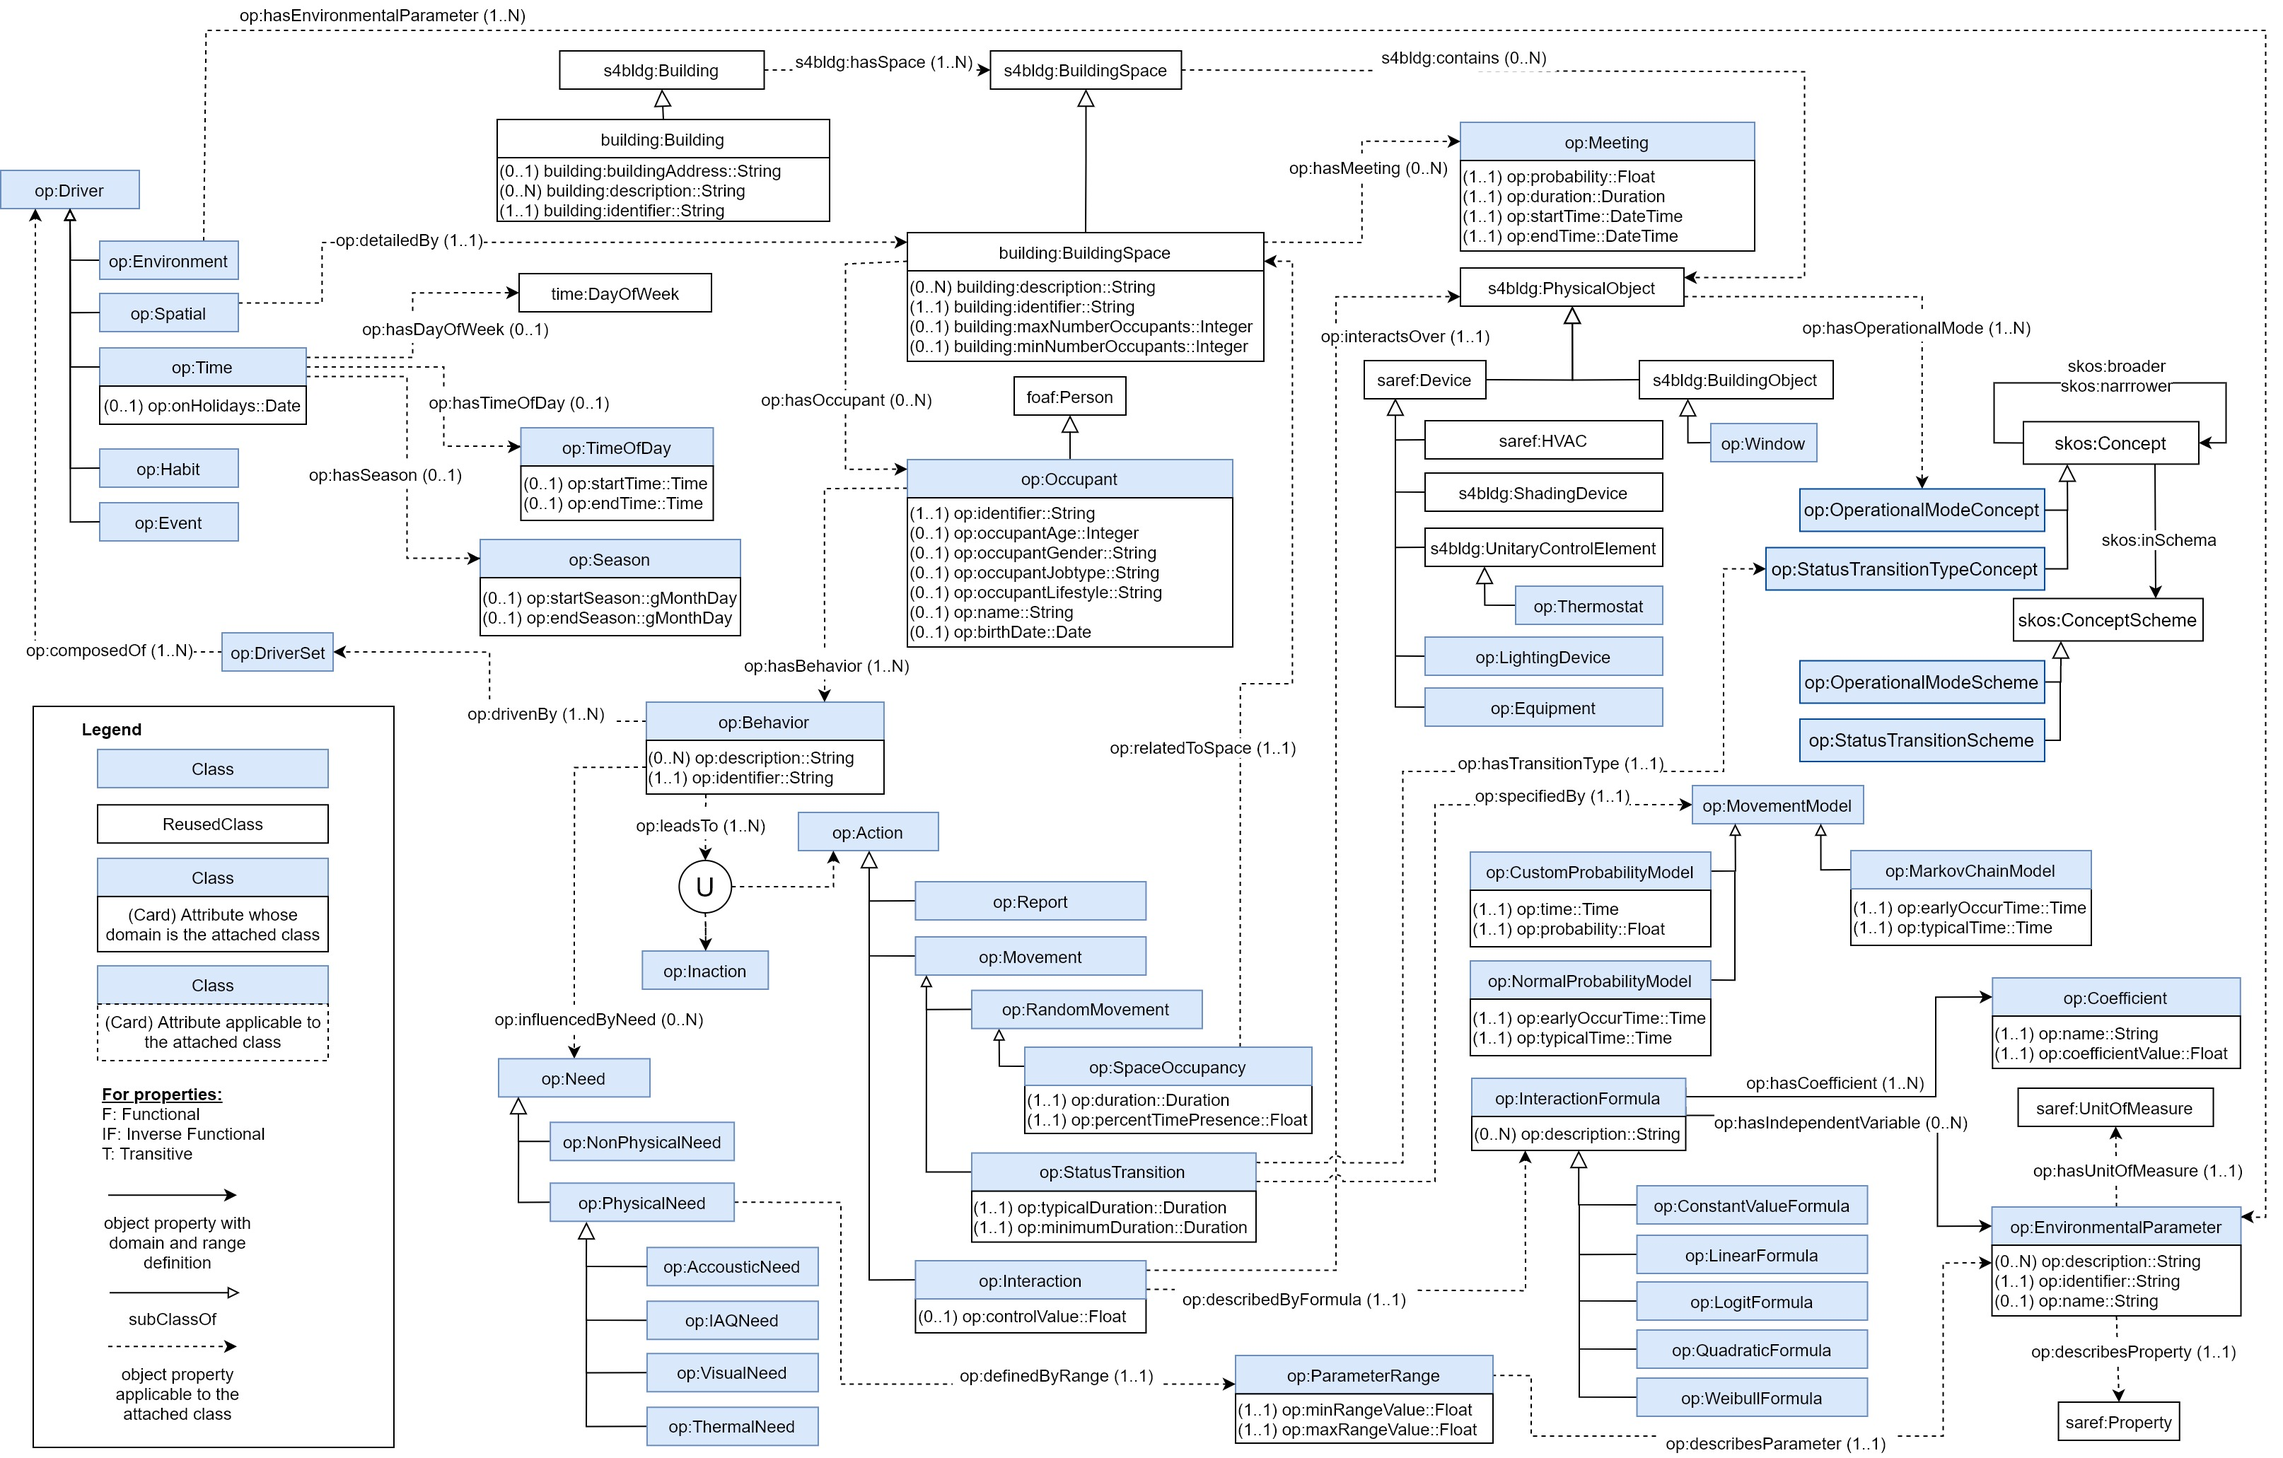
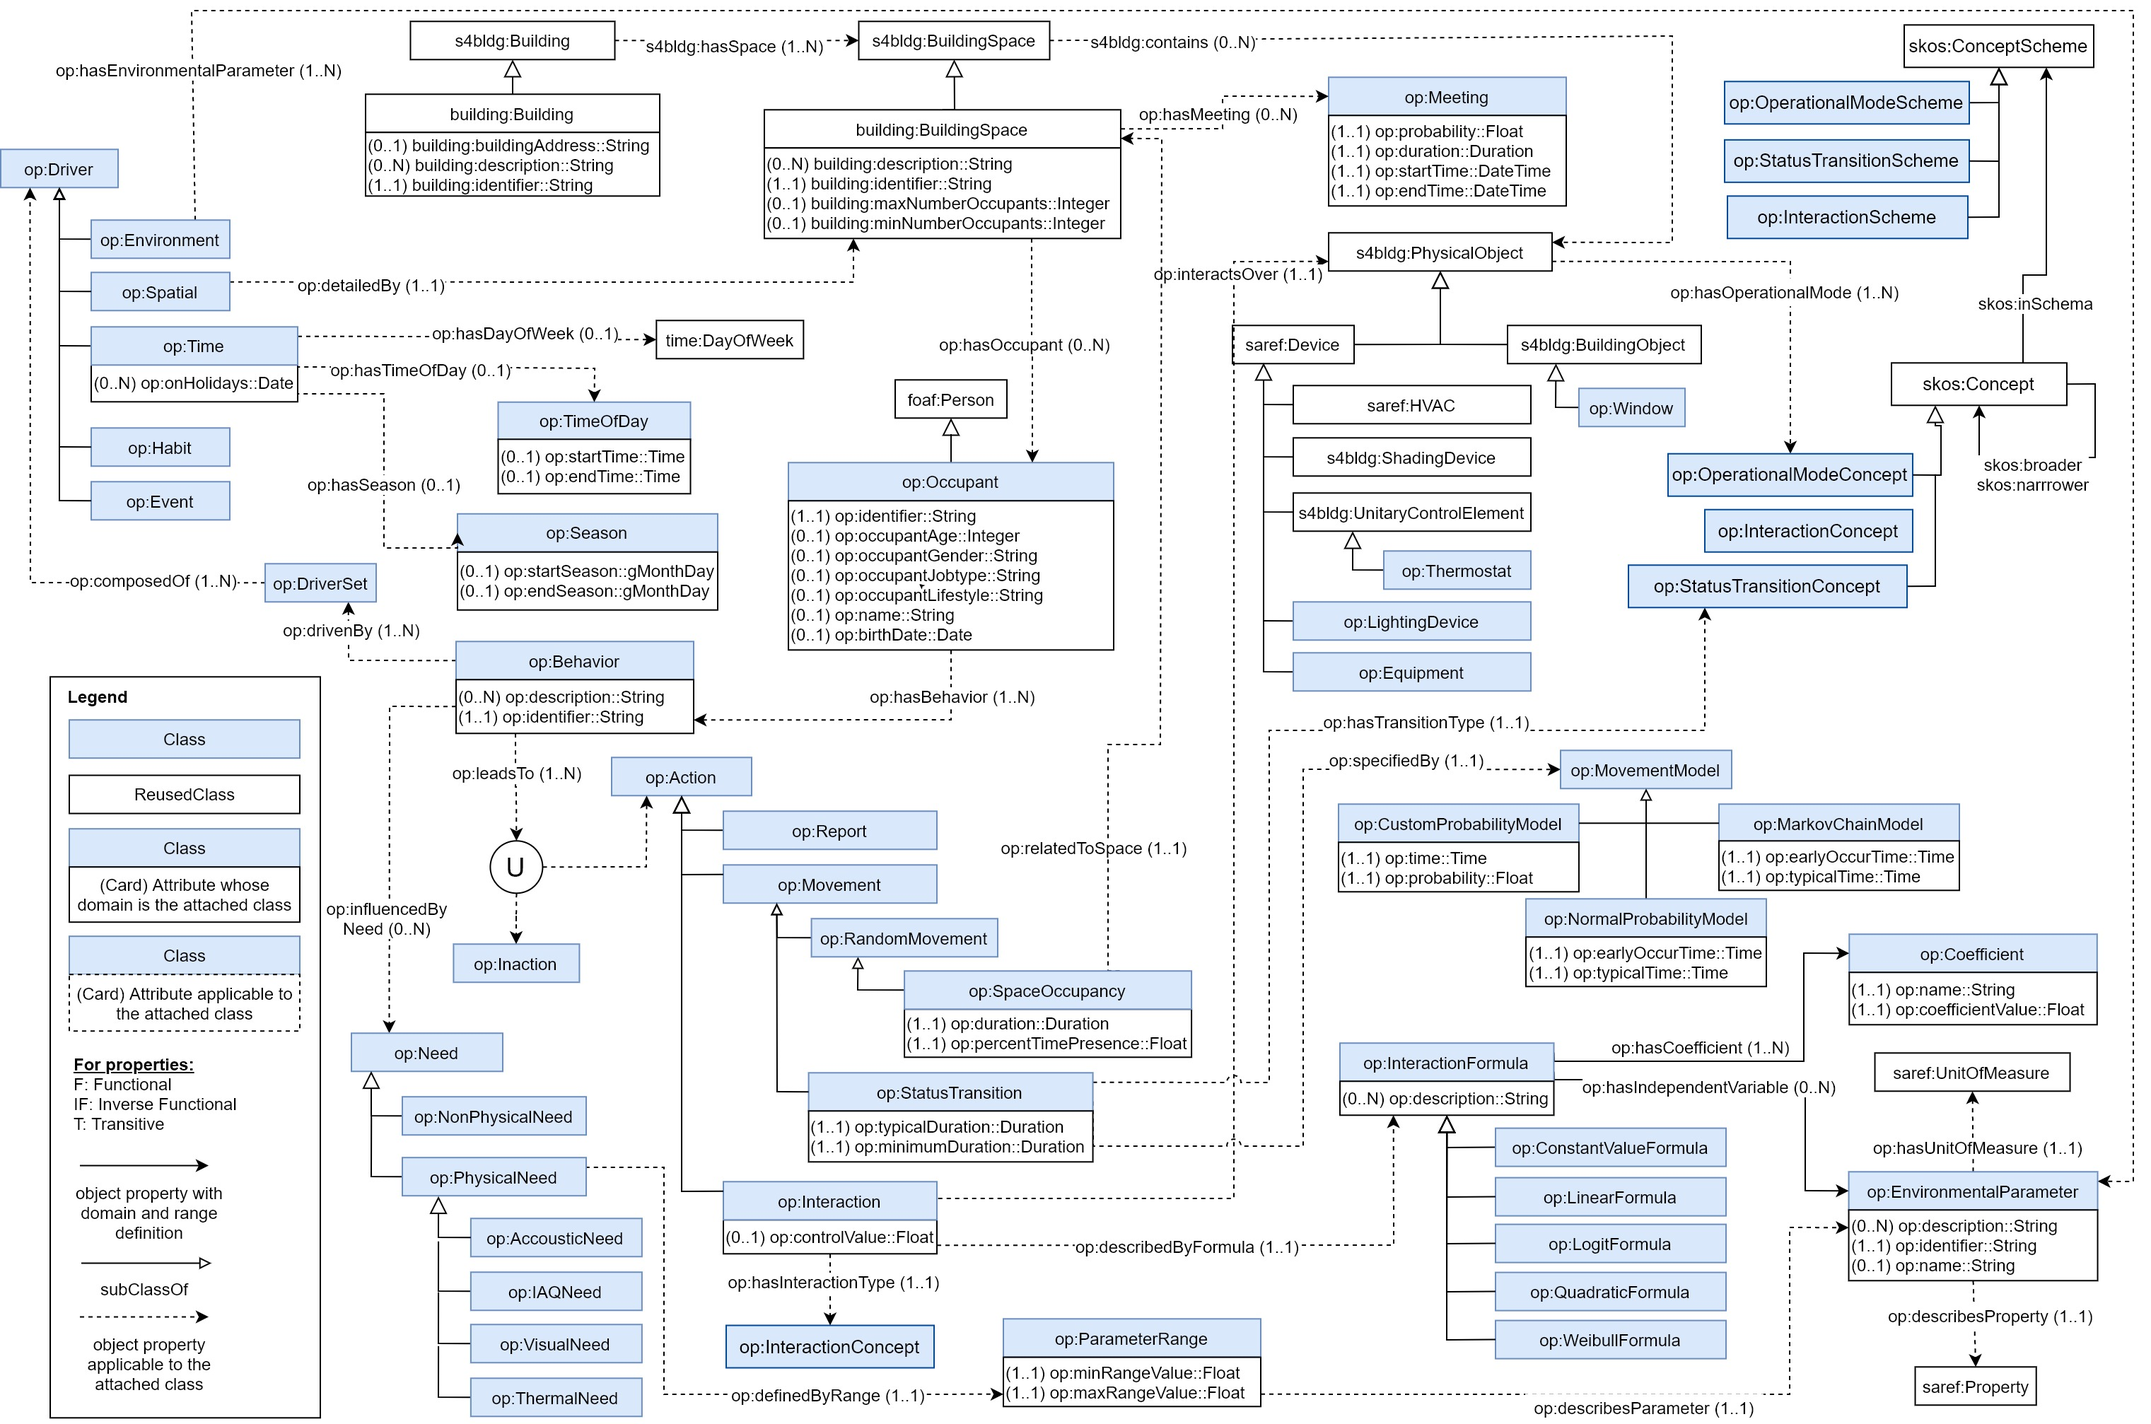
change in interaction concept

diff --git a/documentation/sections/crossref-en.html b/documentation/sections/crossref-en.html
@@ -16,10 +16,6 @@ This section provides details for each class and property defined by Occupancy P
             title="https://bimerr.iot.linkeddata.es/def/occupancy-profile#Behavior">Behavior</a>
       </li>
       <li>
-         <a href="#https://bimerr.iot.linkeddata.es/def/building#Building"
-            title="https://bimerr.iot.linkeddata.es/def/building#Building">Building</a>
-      </li>
-      <li>
          <a href="#https://w3id.org/def/saref4building#Building" title="https://w3id.org/def/saref4building#Building">Building</a>
       </li>
       <li>
@@ -99,8 +95,16 @@ This section provides details for each class and property defined by Occupancy P
             title="https://bimerr.iot.linkeddata.es/def/occupancy-profile#Interaction">Interaction</a>
       </li>
       <li>
+         <a href="#InteractionConcept"
+            title="https://bimerr.iot.linkeddata.es/def/occupancy-profile#InteractionConcept">Interaction concept</a>
+      </li>
+      <li>
          <a href="#InteractionFormula"
             title="https://bimerr.iot.linkeddata.es/def/occupancy-profile#InteractionFormula">Interaction Formula</a>
+      </li>
+      <li>
+         <a href="#InteractionScheme"
+            title="https://bimerr.iot.linkeddata.es/def/occupancy-profile#InteractionScheme">Interaction scheme</a>
       </li>
       <li>
          <a href="#LightingDevice"
@@ -315,24 +319,6 @@ This section provides details for each class and property defined by Occupancy P
          <dd/>
       </dl>
    </div>
-   <div class="entity" id="https://bimerr.iot.linkeddata.es/def/building#Building">
-      <h3>Building<sup class="type-c" title="class">c</sup>
-         <span class="backlink"> back to <a href="#toc">ToC</a> or <a href="#classes">Class ToC</a>
-         </span>
-      </h3>
-      <p>
-         <strong>IRI:</strong> https://bimerr.iot.linkeddata.es/def/building#Building</p>
-      <div class="comment">
-         <span class="markdown">Building where the occupancy behaviors occur.</span>
-      </div>
-      <dl class="description">
-         <dt>has super-classes</dt>
-         <dd>
-            <a href="#https://w3id.org/def/saref4building#Building" title="https://w3id.org/def/saref4building#Building">Building</a>
-            <sup class="type-c" title="class">c</sup>
-         </dd>
-      </dl>
-   </div>
    <div class="entity" id="https://w3id.org/def/saref4building#Building">
       <h3>Building<sup class="type-c" title="class">c</sup>
          <span class="backlink"> back to <a href="#toc">ToC</a> or <a href="#classes">Class ToC</a>
@@ -346,12 +332,6 @@ This section provides details for each class and property defined by Occupancy P
       <dl class="description">
          <dt>has super-classes</dt>
          <dd/>
-         <dt>has sub-classes</dt>
-         <dd>
-            <a href="#https://bimerr.iot.linkeddata.es/def/building#Building"
-               title="https://bimerr.iot.linkeddata.es/def/building#Building">Building</a>
-            <sup class="type-c" title="class">c</sup>
-         </dd>
       </dl>
    </div>
    <div class="entity" id="https://w3id.org/def/saref4building#BuildingObject">
@@ -458,7 +438,9 @@ This section provides details for each class and property defined by Occupancy P
          <dd/>
          <dt>has sub-classes</dt>
          <dd>
-            <a href="#OperationalModeConcept"
+            <a href="#InteractionConcept"
+               title="https://bimerr.iot.linkeddata.es/def/occupancy-profile#InteractionConcept">Interaction concept</a>
+            <sup class="type-c" title="class">c</sup>, <a href="#OperationalModeConcept"
                title="https://bimerr.iot.linkeddata.es/def/occupancy-profile#OperationalModeConcept">Operational mode concept</a>
             <sup class="type-c" title="class">c</sup>, <a href="#StatusTransitionTypeConcept"
                title="https://bimerr.iot.linkeddata.es/def/occupancy-profile#StatusTransitionTypeConcept">Status transition type concept</a>
@@ -496,7 +478,9 @@ This section provides details for each class and property defined by Occupancy P
       <dl class="description">
          <dt>has sub-classes</dt>
          <dd>
-            <a href="#OperationalModeConceptScheme"
+            <a href="#InteractionScheme"
+               title="https://bimerr.iot.linkeddata.es/def/occupancy-profile#InteractionScheme">Interaction scheme</a>
+            <sup class="type-c" title="class">c</sup>, <a href="#OperationalModeConceptScheme"
                title="https://bimerr.iot.linkeddata.es/def/occupancy-profile#OperationalModeConceptScheme">Operational mode scheme</a>
             <sup class="type-c" title="class">c</sup>, <a href="#StatusTransitionScheme"
                title="https://bimerr.iot.linkeddata.es/def/occupancy-profile#StatusTransitionScheme">Status transition scheme</a>
@@ -828,10 +812,28 @@ This section provides details for each class and property defined by Occupancy P
                title="https://bimerr.iot.linkeddata.es/def/occupancy-profile#Action">Action</a>
             <sup class="type-c" title="class">c</sup>
          </dd>
+      </dl>
+   </div>
+   <div class="entity" id="InteractionConcept">
+      <h3>Interaction concept<sup class="type-c" title="class">c</sup>
+         <span class="backlink"> back to <a href="#toc">ToC</a> or <a href="#classes">Class ToC</a>
+         </span>
+      </h3>
+      <p>
+         <strong>IRI:</strong> https://bimerr.iot.linkeddata.es/def/occupancy-profile#InteractionConcept</p>
+      <div class="comment">
+         <span class="markdown">Types of interactions between occupants and systems.</span>
+      </div>
+      <dl class="description">
+         <dt>has super-classes</dt>
+         <dd>
+            <a href="#http://www.w3.org/2004/02/skos/core#Concept" title="http://www.w3.org/2004/02/skos/core#Concept">Concept</a>
+            <sup class="type-c" title="class">c</sup>
+         </dd>
          <dt>has members</dt>
          <dd>
-            <a href="#SetControlValue"
-               title="https://bimerr.iot.linkeddata.es/def/occupancy-profile#SetControlValue">set control value</a>
+            <a href="#SetToControlValue"
+               title="https://bimerr.iot.linkeddata.es/def/occupancy-profile#SetToControlValue">set to control value</a>
             <sup class="type-ni" title="named individual">ni</sup>, <a href="#TurnOff"
                title="https://bimerr.iot.linkeddata.es/def/occupancy-profile#TurnOff">turn off</a>
             <sup class="type-ni" title="named individual">ni</sup>, <a href="#TurnOn"
@@ -874,6 +876,25 @@ This section provides details for each class and property defined by Occupancy P
             <sup class="type-op" title="object property">op</sup>, <a href="#hasIndependentVariable"
                title="https://bimerr.iot.linkeddata.es/def/occupancy-profile#hasIndependentVariable">has independent variable</a>
             <sup class="type-op" title="object property">op</sup>
+         </dd>
+      </dl>
+   </div>
+   <div class="entity" id="InteractionScheme">
+      <h3>Interaction scheme<sup class="type-c" title="class">c</sup>
+         <span class="backlink"> back to <a href="#toc">ToC</a> or <a href="#classes">Class ToC</a>
+         </span>
+      </h3>
+      <p>
+         <strong>IRI:</strong> https://bimerr.iot.linkeddata.es/def/occupancy-profile#InteractionScheme</p>
+      <div class="comment">
+         <span class="markdown">An aggregation of SKOS concepts regarding the interaction type between occupants and space systems</span>
+      </div>
+      <dl class="description">
+         <dt>has super-classes</dt>
+         <dd>
+            <a href="#http://www.w3.org/2004/02/skos/core#ConceptScheme"
+               title="http://www.w3.org/2004/02/skos/core#ConceptScheme">Concept Scheme</a>
+            <sup class="type-c" title="class">c</sup>
          </dd>
       </dl>
    </div>
@@ -2690,9 +2711,9 @@ This section provides details for each class and property defined by Occupancy P
          </a>
       </li>
       <li>
-         <a href="#SetControlValue"
-            title="https://bimerr.iot.linkeddata.es/def/occupancy-profile#SetControlValue">
-            <span>set control value</span>
+         <a href="#SetToControlValue"
+            title="https://bimerr.iot.linkeddata.es/def/occupancy-profile#SetToControlValue">
+            <span>set to control value</span>
          </a>
       </li>
       <li>
@@ -3254,18 +3275,18 @@ This section provides details for each class and property defined by Occupancy P
          </dd>
       </dl>
    </div>
-   <div class="entity" id="SetControlValue">
-      <h3>set control value<sup class="type-ni" title="named individual">ni</sup>
+   <div class="entity" id="SetToControlValue">
+      <h3>set to control value<sup class="type-ni" title="named individual">ni</sup>
          <span class="backlink"> back to <a href="#toc">ToC</a> or <a href="#namedindividuals">Named Individual ToC</a>
          </span>
       </h3>
       <p>
-         <strong>IRI:</strong> https://bimerr.iot.linkeddata.es/def/occupancy-profile#SetControlValue</p>
+         <strong>IRI:</strong> https://bimerr.iot.linkeddata.es/def/occupancy-profile#SetToControlValue</p>
       <dl class="description">
          <dt>belongs to</dt>
          <dd>
-            <a href="#Interaction"
-               title="https://bimerr.iot.linkeddata.es/def/occupancy-profile#Interaction">Interaction</a>
+            <a href="#InteractionConcept"
+               title="https://bimerr.iot.linkeddata.es/def/occupancy-profile#InteractionConcept">Interaction concept</a>
             <sup class="type-c" title="class">c</sup>
          </dd>
       </dl>
@@ -3435,8 +3456,8 @@ This section provides details for each class and property defined by Occupancy P
       <dl class="description">
          <dt>belongs to</dt>
          <dd>
-            <a href="#Interaction"
-               title="https://bimerr.iot.linkeddata.es/def/occupancy-profile#Interaction">Interaction</a>
+            <a href="#InteractionConcept"
+               title="https://bimerr.iot.linkeddata.es/def/occupancy-profile#InteractionConcept">Interaction concept</a>
             <sup class="type-c" title="class">c</sup>
          </dd>
       </dl>
@@ -3451,8 +3472,8 @@ This section provides details for each class and property defined by Occupancy P
       <dl class="description">
          <dt>belongs to</dt>
          <dd>
-            <a href="#Interaction"
-               title="https://bimerr.iot.linkeddata.es/def/occupancy-profile#Interaction">Interaction</a>
+            <a href="#InteractionConcept"
+               title="https://bimerr.iot.linkeddata.es/def/occupancy-profile#InteractionConcept">Interaction concept</a>
             <sup class="type-c" title="class">c</sup>
          </dd>
       </dl>

diff --git a/documentation/sections/overview-en.html b/documentation/sections/overview-en.html
@@ -16,10 +16,6 @@ This ontology has the following classes and properties.</span>
          title="https://bimerr.iot.linkeddata.es/def/occupancy-profile#Behavior">Behavior</a>
    </li>
    <li>
-      <a href="#https://bimerr.iot.linkeddata.es/def/building#Building"
-         title="https://bimerr.iot.linkeddata.es/def/building#Building">Building</a>
-   </li>
-   <li>
       <a href="#https://w3id.org/def/saref4building#Building" title="https://w3id.org/def/saref4building#Building">Building</a>
    </li>
    <li>
@@ -99,8 +95,16 @@ This ontology has the following classes and properties.</span>
          title="https://bimerr.iot.linkeddata.es/def/occupancy-profile#Interaction">Interaction</a>
    </li>
    <li>
+      <a href="#InteractionConcept"
+         title="https://bimerr.iot.linkeddata.es/def/occupancy-profile#InteractionConcept">Interaction concept</a>
+   </li>
+   <li>
       <a href="#InteractionFormula"
          title="https://bimerr.iot.linkeddata.es/def/occupancy-profile#InteractionFormula">Interaction Formula</a>
+   </li>
+   <li>
+      <a href="#InteractionScheme"
+         title="https://bimerr.iot.linkeddata.es/def/occupancy-profile#InteractionScheme">Interaction scheme</a>
    </li>
    <li>
       <a href="#LightingDevice"
@@ -650,9 +654,9 @@ This ontology has the following classes and properties.</span>
       </a>
    </li>
    <li>
-      <a href="#SetControlValue"
-         title="https://bimerr.iot.linkeddata.es/def/occupancy-profile#SetControlValue">
-         <span>set control value</span>
+      <a href="#SetToControlValue"
+         title="https://bimerr.iot.linkeddata.es/def/occupancy-profile#SetToControlValue">
+         <span>set to control value</span>
       </a>
    </li>
    <li>

diff --git a/documentation/sections/introduction-en.html b/documentation/sections/introduction-en.html
@@ -1,6 +1,6 @@
 <h2 id="intro" class="list">Introduction <span class="backlink"> back to <a href="#toc">ToC</a></span></h2>
 <span class="markdown">
-This is a place holder text for the introduction. The introduction should briefly describe the ontology, its motivation, state of the art and goals.</span>
+The Occupancy Profile ontology has been developed to represent people’s behavior inside buildings with a focus on the energy impact their actions produce. This information is critical to get more precise building energy profiles, and generate simulation scenarios that fit better with reality. In this sense, the shared conceptualization represented in this ontology focuses on the interaction of occupants with the different systems that exist inside building spaces that could influence their thermal comfort requirements. This ontology has been developed using the Occupancy Behavior XML Schema [Hong et. al., 2019] as a basis, which defines the main. Some additional concepts as well as relations and attributes were added in order to obtain a full semantic representation of the domain.</span>
 <div id="namespacedeclarations">
 <h3 id="ns" class="list">Namespace declarations</h3>
 <div id="ns" align="center">

diff --git a/documentation/index-en.html b/documentation/index-en.html
@@ -68,8 +68,8 @@ function loadTOC(){
 <dt>Revision:</dt>
 <dd>0.0.5</dd>
 <dt>Authors:</dt>
-<dd>Serge ChÃ¡vez Feria (Ontology Engineering Group, Universidad PolitÃ©cnica de Madrid)</dd>
-<dd><a href="http://w3id.org/people/mpoveda">MarÃa Poveda VillalÃ³n</a> (Ontology Engineering Group, Universidad PolitÃ©cnica de Madrid)</dd>
+<dd>Serge Ch¡vez Feria (Ontology Engineering Group, Universidad Polit©cnica de Madrid)</dd>
+<dd><a href="http://w3id.org/people/mpoveda">Mara Poveda Villal³n</a> (Ontology Engineering Group, Universidad Polit©cnica de Madrid)</dd>
 
 <dt>Publisher:</dt>
 <dd><a href="http://www.oeg-upm.net/">http://www.oeg-upm.net/</a></dd>

diff --git a/documentation/sections/references-en.html b/documentation/sections/references-en.html
@@ -1,5 +1,5 @@
 
 <h2 id="ref" class="list">References <span class="backlink"> back to <a href="#toc">ToC</a></span></h2>
 <span class="markdown">
-Add your references here. It is recommended to have them as a list.</span>
+[Hong et. al., 2019] Hong, T., D’Oca, S., Taylor-Lange, S. and Turner, W. (2015). An ontology to represent energy-related occupant behavior in buildings Part II: Implementation of the DNAS framework using an XML schema. http://dx.doi.org/10.1016/j.buildenv.2015.08.006</span>
 
